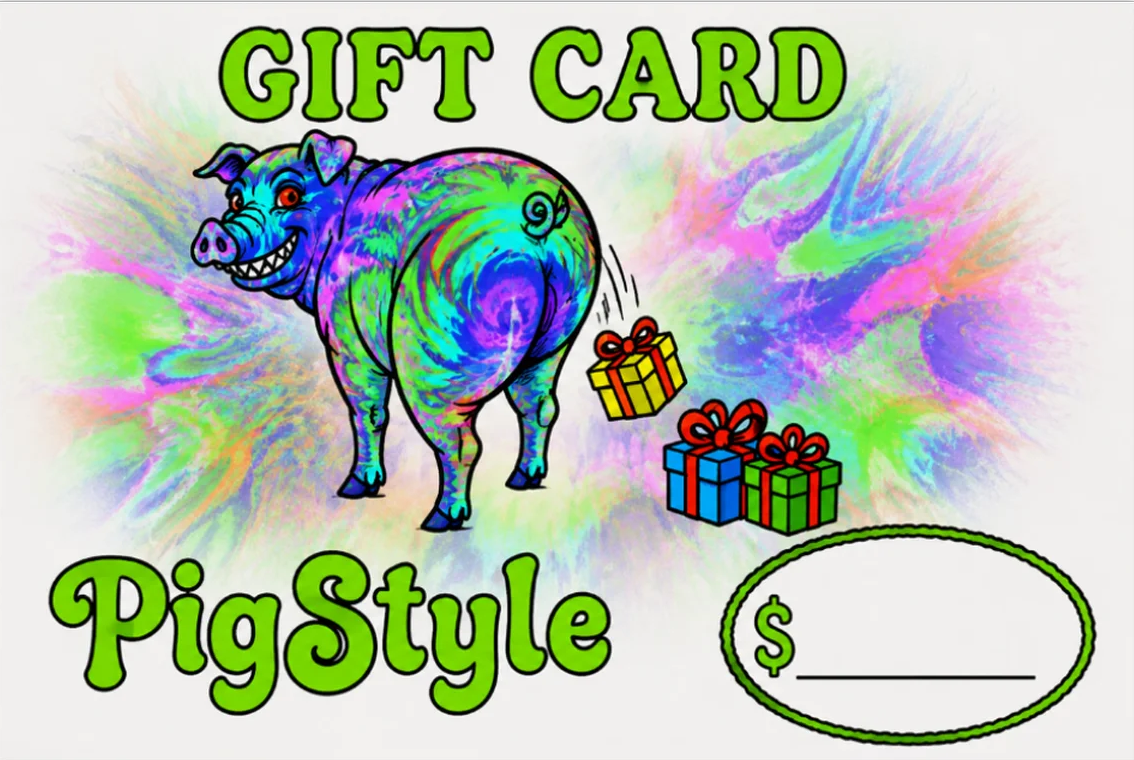
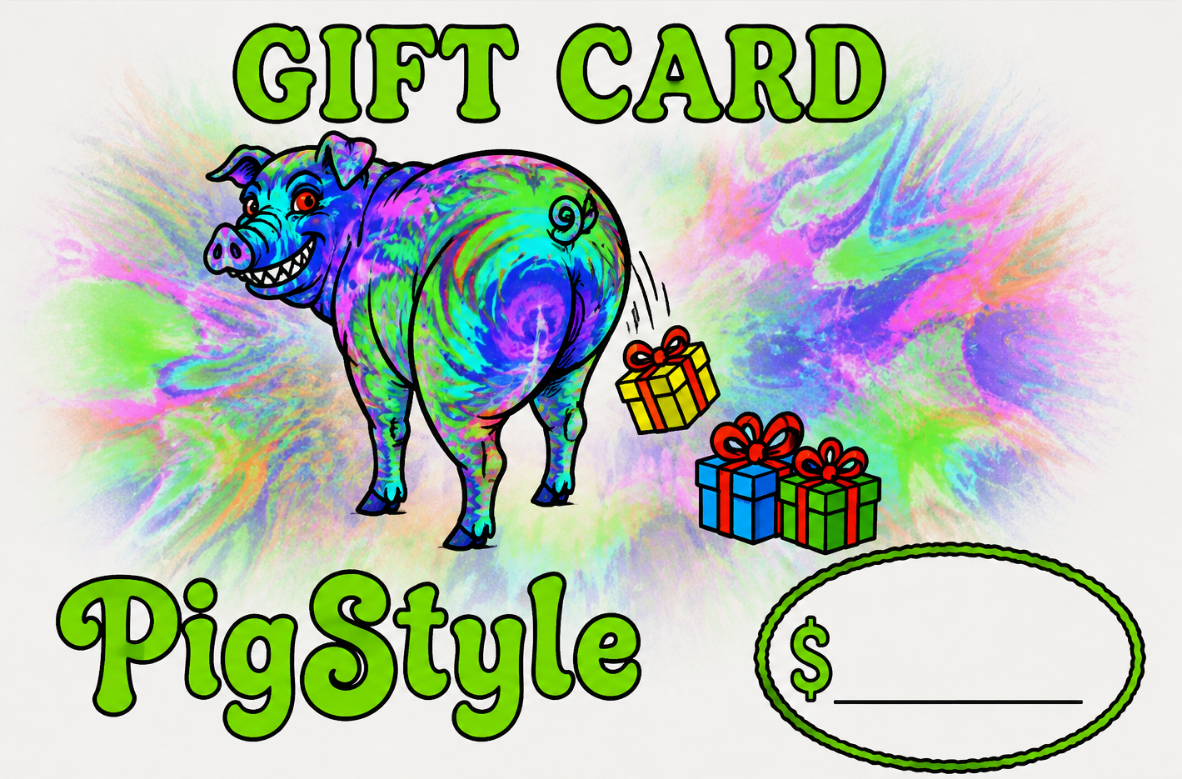
cleaned up merch page, add picture to order page

diff --git a/website/HTML/index.html b/website/HTML/index.html
@@ -225,28 +225,48 @@
                 </div>
             </div>
             
-            <!-- Tile 2: Merch & Gifts - Image only -->
+            <!-- Tile 2: Merch & Gifts -->
             <div class="tile" data-index="2">
                 <div class="flip-card" id="flipCard2">
                     <div class="flip-card-front merch-front">
                         <span class="flip-hint"><i class="fas fa-rotate"></i> Tap to flip</span>
                     </div>
-                    <div class="flip-card-back">
-                        <div class="back-content" id="merchContent">
-                            <div class="merch-container">
-                                <div id="catalogContainer">
-                                    <div class="merch-loading">
-                                        <div class="merch-loading-dots">
-                                            <div></div>
-                                            <div></div>
-                                            <div></div>
-                                            <div></div>
-                                        </div>
-                                        <p>Loading merchandise...</p>
-                                    </div>
+                    <div class="flip-card-back" style="background: transparent; padding: 0; margin: 0; display: flex; align-items: center; justify-content: center; width: 100%; height: 100%; overflow: hidden; position: relative;">
+                        
+                        <!-- Three rectangles container -->
+                        <div id="merchGrid" style="display: flex; flex-direction: column; gap: 15px; width: 100%; max-width: 1200px; padding: 15px; box-sizing: border-box; height: 100%; justify-content: center; align-items: center; transition: all 0.3s ease; position: relative; z-index: 2;">
+                            
+                            <!-- RECTANGLE 1 - T-Shirt -->
+                            <div class="merch-item" data-item="tshirt" style="background: white; border-radius: 20px; width: 100%; height: auto; aspect-ratio: 1 / 2; display: flex; flex-direction: column; align-items: center; justify-content: center; box-shadow: 0 4px 20px rgba(0,0,0,0.1); padding: 20px; box-sizing: border-box; cursor: pointer; transition: all 0.3s ease; flex-shrink: 0; align-self: center; background-image: url('/static/images/tee-black.png'); background-size: contain; background-position: center; background-repeat: no-repeat; position: relative;" onclick="openMerchPopup('tshirt', this)">
+                                <div style="position: absolute; bottom: 20px; left: 0; right: 0; text-align: center; background: rgba(255,255,255,0.85); padding: 8px 12px; margin: 0 15px; border-radius: 10px;">
+                                    <h3 style="margin: 0; color: #333; font-size: 1rem;">T-Shirt</h3>
+                                    <p style="margin: 0; color: #ff6b6b; font-size: 0.9rem; font-weight: bold;">$24.99</p>
                                 </div>
                             </div>
+                            
+                            <!-- RECTANGLE 2 - Sticker -->
+                            <div class="merch-item" data-item="sticker" style="background: white; border-radius: 20px; width: 100%; height: auto; aspect-ratio: 1 / 2; display: flex; flex-direction: column; align-items: center; justify-content: center; box-shadow: 0 4px 20px rgba(0,0,0,0.1); padding: 20px; box-sizing: border-box; cursor: pointer; transition: all 0.3s ease; flex-shrink: 0; align-self: center; background-image: url('/static/images/sticker.png'); background-size: contain; background-position: center; background-repeat: no-repeat; position: relative;" onclick="openMerchPopup('sticker', this)">
+                                <div style="position: absolute; bottom: 20px; left: 0; right: 0; text-align: center; background: rgba(255,255,255,0.85); padding: 8px 12px; margin: 0 15px; border-radius: 10px;">
+                                    <h3 style="margin: 0; color: #333; font-size: 1rem;">Sticker</h3>
+                                    <p style="margin: 0; color: #ff6b6b; font-size: 0.9rem; font-weight: bold;">$4.99</p>
+                                </div>
+                            </div>
+                            
+                            <!-- RECTANGLE 3 - Gift Card - stacked images vertically -->
+                            <div class="merch-item" data-item="giftcard" style="background: white; border-radius: 20px; width: 100%; height: auto; aspect-ratio: 1 / 2; display: flex; flex-direction: column; align-items: center; justify-content: center; box-shadow: 0 4px 20px rgba(0,0,0,0.1); padding: 0; box-sizing: border-box; cursor: pointer; transition: all 0.3s ease; flex-shrink: 0; align-self: center; position: relative; overflow: hidden;" onclick="openMerchPopup('giftcard', this)">
+                                <!-- Top half - pig image -->
+                                <div style="flex: 1; width: 100%; background-image: url('/static/images/pig_shitting_gifts.png'); background-size: contain; background-position: center; background-repeat: no-repeat; border-bottom: 2px solid #eee;"></div>
+                                <!-- Bottom half - traditional gift card -->
+                                <div style="flex: 1; width: 100%; background-image: url('/static/images/traditional_gift_card.png'); background-size: contain; background-position: center; background-repeat: no-repeat;"></div>
+                                <!-- Text overlay at bottom -->
+                                <div style="position: absolute; bottom: 10px; left: 0; right: 0; text-align: center; background: rgba(255,255,255,0.85); padding: 6px 12px; margin: 0 15px; border-radius: 10px; z-index: 3;">
+                                    <h3 style="margin: 0; color: #333; font-size: 0.9rem;">Gift Card</h3>
+                                    <p style="margin: 0; color: #4CAF50; font-size: 0.8rem; font-weight: bold;">Choose your design</p>
+                                </div>
+                            </div>
+                            
                         </div>
+                        
                     </div>
                 </div>
             </div>
@@ -367,11 +387,7 @@
             <!-- Tile 6: Order Records -->
             <div class="tile" data-index="6">
                 <div class="flip-card" id="flipCard6">
-                    <div class="flip-card-front">
-                        <i class="fas fa-shopping-cart front-icon"></i>
-                        <h2 class="front-title">Order Records</h2>
-                        <p class="front-description">Request new vinyl from our distributor. We'll contact you when it arrives.</p>
-                        <span class="front-action">Order Now</span>
+                    <div class="flip-card-front" style="background: rgba(0,0,0,0.2); background-image: url('/static/images/pig_delivering_order.png'); background-size: contain; background-position: center; background-repeat: no-repeat; background-blend-mode: overlay; display: flex; flex-direction: column; align-items: center; justify-content: center; position: relative;">
                         <span class="flip-hint"><i class="fas fa-rotate"></i> Tap to flip</span>
                     </div>
                     <div class="flip-card-back">
@@ -467,10 +483,19 @@
         </div>
     </div>
 
-    <script>
-        // The main index.js handles everything now
-        // All tile-specific JS is in separate component files
+    <!-- Merch Popup Modal -->
+    <div id="merchPopup" class="modal-overlay" style="display: none; position: fixed; top: 0; left: 0; width: 100%; height: 100%; background: rgba(0,0,0,0.85); z-index: 9999; align-items: center; justify-content: center; padding: 20px; box-sizing: border-box;">
+        <button onclick="closeMerchPopup()" style="position: absolute; top: 20px; right: 20px; background: rgba(255,255,255,0.2); color: white; border: 2px solid rgba(255,255,255,0.3); border-radius: 50%; width: 50px; height: 50px; font-size: 28px; cursor: pointer; display: flex; align-items: center; justify-content: center; z-index: 20; transition: all 0.3s;">✕</button>
         
+        <div id="merchPopupContent" style="background: white; border-radius: 20px; width: 100%; max-width: 600px; max-height: 90vh; overflow-y: auto; padding: 30px; box-sizing: border-box; position: relative;">
+            
+            <!-- Dynamic content will be inserted here -->
+            <div id="popupDynamicContent"></div>
+            
+        </div>
+    </div>
+
+    <script>
         // Close modal function - needed for inline onclick
         window.closePaymentModal = function() {
             var modal = document.getElementById('payment-modal');
@@ -495,6 +520,272 @@
         window.downloadGiftCardPDF = function() {
             alert('Download PDF functionality coming soon!');
         };
+
+        // Merch popup functions
+        function openMerchPopup(itemType, element) {
+            var popup = document.getElementById('merchPopup');
+            var content = document.getElementById('popupDynamicContent');
+            
+            var html = '';
+            
+            if (itemType === 'tshirt') {
+                html = `
+                    <h2 style="text-align: center; color: #333; margin-bottom: 20px;"><i class="fas fa-tshirt" style="color: #ff6b6b;"></i> PigStyle T-Shirt</h2>
+                    <div style="text-align: center; margin-bottom: 20px;">
+                        <img src="/static/images/tee-black.png" alt="T-Shirt" style="max-width: 100%; max-height: 200px; object-fit: contain; border-radius: 10px;">
+                    </div>
+                    <div style="margin-bottom: 15px;">
+                        <label style="display: block; color: #666; font-size: 14px; font-weight: 500; margin-bottom: 5px;">Color</label>
+                        <div style="display: flex; gap: 10px;">
+                            <button onclick="selectTeeColor('black', this)" style="width: 40px; height: 40px; border-radius: 50%; border: 3px solid #ff6b6b; background: #1a1a1a; cursor: pointer; padding: 0; transition: all 0.2s;" class="color-btn active"></button>
+                            <button onclick="selectTeeColor('yellow', this)" style="width: 40px; height: 40px; border-radius: 50%; border: 3px solid #ddd; background: #FFD700; cursor: pointer; padding: 0; transition: all 0.2s;" class="color-btn"></button>
+                            <button onclick="selectTeeColor('purple', this)" style="width: 40px; height: 40px; border-radius: 50%; border: 3px solid #ddd; background: #9B59B6; cursor: pointer; padding: 0; transition: all 0.2s;" class="color-btn"></button>
+                        </div>
+                    </div>
+                    <div style="margin-bottom: 15px;">
+                        <label style="display: block; color: #666; font-size: 14px; font-weight: 500; margin-bottom: 5px;">Size</label>
+                        <select id="teeSize" style="width: 100%; padding: 10px; border-radius: 8px; border: 2px solid #ddd; font-size: 14px; outline: none;">
+                            <option value="S">Small (S)</option>
+                            <option value="M" selected>Medium (M)</option>
+                            <option value="L">Large (L)</option>
+                            <option value="XL">Extra Large (XL)</option>
+                            <option value="XXL">XX Large (XXL)</option>
+                        </select>
+                    </div>
+                    <div style="margin-bottom: 20px; padding: 10px; border-radius: 8px; background: #e8f5e9; color: #2E7D32; text-align: center; font-weight: 600;">
+                        ✅ In Stock (13 available)
+                    </div>
+                    <button onclick="addToCart('T-Shirt', 24.99)" style="width: 100%; padding: 14px; background: #ff6b6b; color: white; border: none; border-radius: 30px; font-size: 16px; font-weight: 600; cursor: pointer; transition: all 0.2s;">
+                        <i class="fas fa-shopping-cart"></i> Add to Cart - $24.99
+                    </button>
+                `;
+            } else if (itemType === 'sticker') {
+                html = `
+                    <h2 style="text-align: center; color: #333; margin-bottom: 20px;"><i class="fas fa-sticky-note" style="color: #ff6b6b;"></i> PigStyle Sticker</h2>
+                    <div style="text-align: center; margin-bottom: 20px;">
+                        <img src="/static/images/sticker.png" alt="Sticker" style="max-width: 100%; max-height: 200px; object-fit: contain; border-radius: 10px;">
+                    </div>
+                    <div style="margin-bottom: 20px; padding: 10px; border-radius: 8px; background: #e8f5e9; color: #2E7D32; text-align: center; font-weight: 600;">
+                        ✅ In Stock (50+ available)
+                    </div>
+                    <button onclick="addToCart('Sticker', 4.99)" style="width: 100%; padding: 14px; background: #ff6b6b; color: white; border: none; border-radius: 30px; font-size: 16px; font-weight: 600; cursor: pointer; transition: all 0.2s;">
+                        <i class="fas fa-shopping-cart"></i> Add to Cart - $4.99
+                    </button>
+                `;
+            } else if (itemType === 'giftcard') {
+                html = `
+                    <h2 style="text-align: center; color: #333; margin-bottom: 20px;"><i class="fas fa-gift" style="color: #4CAF50;"></i> PigStyle Gift Card</h2>
+                    <p style="text-align: center; color: #666; margin-bottom: 20px;">Choose your design below</p>
+                    
+                    <div style="display: grid; grid-template-columns: 1fr 1fr; gap: 15px; margin-bottom: 20px;">
+                        <div style="border-radius: 12px; overflow: hidden; border: 3px solid #4CAF50; cursor: pointer; transition: all 0.3s;" onclick="selectGiftCardDesign('pig', this)" class="design-option active">
+                            <img src="/static/images/pig_shitting_gifts.png" alt="Pig Design" style="width: 100%; height: 150px; object-fit: cover; display: block;">
+                            <div style="padding: 10px; text-align: center; background: #4CAF50; color: white; font-size: 14px; font-weight: 600;">Pig Design</div>
+                        </div>
+                        <div style="border-radius: 12px; overflow: hidden; border: 2px solid #ddd; cursor: pointer; transition: all 0.3s;" onclick="selectGiftCardDesign('traditional', this)" class="design-option">
+                            <img src="/static/images/traditional_gift_card.png" alt="Traditional Design" style="width: 100%; height: 150px; object-fit: cover; display: block;">
+                            <div style="padding: 10px; text-align: center; background: #f5f5f5; color: #666; font-size: 14px; font-weight: 600;">Traditional</div>
+                        </div>
+                    </div>
+                    
+                    <div style="margin-bottom: 15px;">
+                        <label style="display: block; color: #666; font-size: 14px; font-weight: 500; margin-bottom: 5px;">Amount</label>
+                        <div style="display: flex; gap: 8px; flex-wrap: wrap;">
+                            <button onclick="selectGiftAmount(10, this)" style="padding: 8px 16px; border-radius: 20px; border: 2px solid #ddd; background: white; color: #666; font-size: 14px; font-weight: 600; cursor: pointer; transition: all 0.2s;">$10</button>
+                            <button onclick="selectGiftAmount(25, this)" style="padding: 8px 16px; border-radius: 20px; border: 2px solid #ddd; background: white; color: #666; font-size: 14px; font-weight: 600; cursor: pointer; transition: all 0.2s;">$25</button>
+                            <button onclick="selectGiftAmount(50, this)" style="padding: 8px 16px; border-radius: 20px; border: 3px solid #4CAF50; background: #4CAF50; color: white; font-size: 14px; font-weight: 600; cursor: pointer; transition: all 0.2s;" class="amount-btn active">$50</button>
+                            <button onclick="selectGiftAmount(100, this)" style="padding: 8px 16px; border-radius: 20px; border: 2px solid #ddd; background: white; color: #666; font-size: 14px; font-weight: 600; cursor: pointer; transition: all 0.2s;">$100</button>
+                        </div>
+                    </div>
+                    
+                    <div style="margin-bottom: 15px;">
+                        <label style="display: block; color: #666; font-size: 14px; font-weight: 500; margin-bottom: 5px;">Delivery Method</label>
+                        <select id="deliveryMethod" style="width: 100%; padding: 10px; border-radius: 8px; border: 2px solid #ddd; font-size: 14px; outline: none;" onchange="updateGiftTotal()">
+                            <option value="digital">💻 Digital (Email) - Free</option>
+                            <option value="print">🖨 Print at Home - Free</option>
+                            <option value="mail">📬 Mail to Recipient - +$3.99</option>
+                        </select>
+                    </div>
+                    
+                    <div style="margin-bottom: 15px;">
+                        <label style="display: block; color: #666; font-size: 14px; font-weight: 500; margin-bottom: 5px;">Recipient Email (for digital delivery)</label>
+                        <input type="email" id="recipientEmail" placeholder="recipient@email.com" style="width: 100%; padding: 10px; border-radius: 8px; border: 2px solid #ddd; font-size: 14px; outline: none; box-sizing: border-box;">
+                    </div>
+                    
+                    <div style="margin-bottom: 20px; padding: 10px; border-radius: 8px; background: #f5f5f5; text-align: center;">
+                        <span style="color: #666; font-size: 14px;">Total: </span>
+                        <span id="giftTotal" style="color: #4CAF50; font-size: 24px; font-weight: bold;">$50.00</span>
+                    </div>
+                    
+                    <button onclick="addToCart('Gift Card', 50)" style="width: 100%; padding: 14px; background: #4CAF50; color: white; border: none; border-radius: 30px; font-size: 16px; font-weight: 600; cursor: pointer; transition: all 0.2s;">
+                        <i class="fas fa-gift"></i> Purchase Gift Card
+                    </button>
+                `;
+            }
+            
+            content.innerHTML = html;
+            
+            // Show popup
+            popup.style.display = 'flex';
+            popup.style.opacity = '0';
+            document.body.style.overflow = 'hidden';
+            
+            setTimeout(function() {
+                popup.style.opacity = '1';
+                popup.style.transition = 'opacity 0.3s ease';
+            }, 50);
+        }
+
+        function closeMerchPopup() {
+            var popup = document.getElementById('merchPopup');
+            popup.style.opacity = '0';
+            
+            setTimeout(function() {
+                popup.style.display = 'none';
+                document.body.style.overflow = '';
+            }, 300);
+        }
+
+        // T-Shirt functions
+        function selectTeeColor(color, btn) {
+            document.querySelectorAll('.color-btn').forEach(function(b) {
+                b.classList.remove('active');
+                b.style.borderColor = '#ddd';
+            });
+            btn.classList.add('active');
+            btn.style.borderColor = '#ff6b6b';
+            
+            // Update image preview
+            var img = document.querySelector('#popupDynamicContent img');
+            if (img) {
+                img.src = '/static/images/tee-' + color + '.png';
+            }
+        }
+
+        // Gift Card functions
+        function selectGiftCardDesign(design, el) {
+            document.querySelectorAll('.design-option').forEach(function(d) {
+                d.style.borderColor = '#ddd';
+                d.style.borderWidth = '2px';
+                var label = d.querySelector('div:last-child');
+                if (label) {
+                    label.style.background = '#f5f5f5';
+                    label.style.color = '#666';
+                }
+            });
+            el.style.borderColor = '#4CAF50';
+            el.style.borderWidth = '3px';
+            var label = el.querySelector('div:last-child');
+            if (label) {
+                label.style.background = '#4CAF50';
+                label.style.color = 'white';
+            }
+        }
+
+        function selectGiftAmount(amount, btn) {
+            document.querySelectorAll('.amount-btn').forEach(function(b) {
+                b.style.borderColor = '#ddd';
+                b.style.background = 'white';
+                b.style.color = '#666';
+            });
+            btn.style.borderColor = '#4CAF50';
+            btn.style.background = '#4CAF50';
+            btn.style.color = 'white';
+            updateGiftTotal();
+        }
+
+        function updateGiftTotal() {
+            var amount = 50;
+            var amountBtns = document.querySelectorAll('.amount-btn');
+            amountBtns.forEach(function(b) {
+                if (b.style.background === '#4CAF50' || b.classList.contains('active')) {
+                    amount = parseInt(b.textContent.replace('$', ''));
+                }
+            });
+            
+            var delivery = document.getElementById('deliveryMethod');
+            var extra = 0;
+            if (delivery && delivery.value === 'mail') {
+                extra = 3.99;
+            }
+            
+            var total = amount + extra;
+            document.getElementById('giftTotal').textContent = '$' + total.toFixed(2);
+        }
+
+        // Add to cart function
+        function addToCart(item, price) {
+            alert('🛒 Added to cart: ' + item + ' - $' + price.toFixed(2));
+            closeMerchPopup();
+        }
+
+        // Close popup on overlay click
+        document.addEventListener('DOMContentLoaded', function() {
+            var popup = document.getElementById('merchPopup');
+            if (popup) {
+                popup.addEventListener('click', function(e) {
+                    if (e.target === this) {
+                        closeMerchPopup();
+                    }
+                });
+            }
+
+            // Handle responsive layout for merch rectangles
+            function handleMerchLayout() {
+                var container = document.getElementById('merchGrid');
+                if (!container) return;
+                
+                var isLandscape = window.innerWidth > window.innerHeight;
+                var isWide = window.innerWidth > 768;
+                
+                var rects = container.querySelectorAll('.merch-item');
+                
+                if (isLandscape || isWide) {
+                    container.style.flexDirection = 'row';
+                    container.style.flexWrap = 'wrap';
+                    container.style.gap = '15px';
+                    container.style.justifyContent = 'center';
+                    container.style.alignItems = 'flex-start';
+                    
+                    rects.forEach(function(rect) {
+                        rect.style.width = 'calc(33.333% - 10px)';
+                        rect.style.height = 'auto';
+                        rect.style.flexShrink = '0';
+                        rect.style.alignSelf = 'flex-start';
+                        rect.style.aspectRatio = '1 / 2';
+                    });
+                } else {
+                    container.style.flexDirection = 'column';
+                    container.style.flexWrap = 'nowrap';
+                    container.style.gap = '15px';
+                    container.style.justifyContent = 'center';
+                    container.style.alignItems = 'center';
+                    
+                    rects.forEach(function(rect) {
+                        rect.style.width = '100%';
+                        rect.style.height = 'auto';
+                        rect.style.flexShrink = '0';
+                        rect.style.alignSelf = 'center';
+                        rect.style.aspectRatio = '1 / 2';
+                    });
+                }
+            }
+
+            handleMerchLayout();
+
+            var resizeTimer;
+            window.addEventListener('resize', function() {
+                clearTimeout(resizeTimer);
+                resizeTimer = setTimeout(handleMerchLayout, 100);
+            });
+
+            // Close popup with Escape key
+            document.addEventListener('keydown', function(e) {
+                if (e.key === 'Escape') {
+                    closeMerchPopup();
+                }
+            });
+        });
     </script>
 </body>
 </html>
